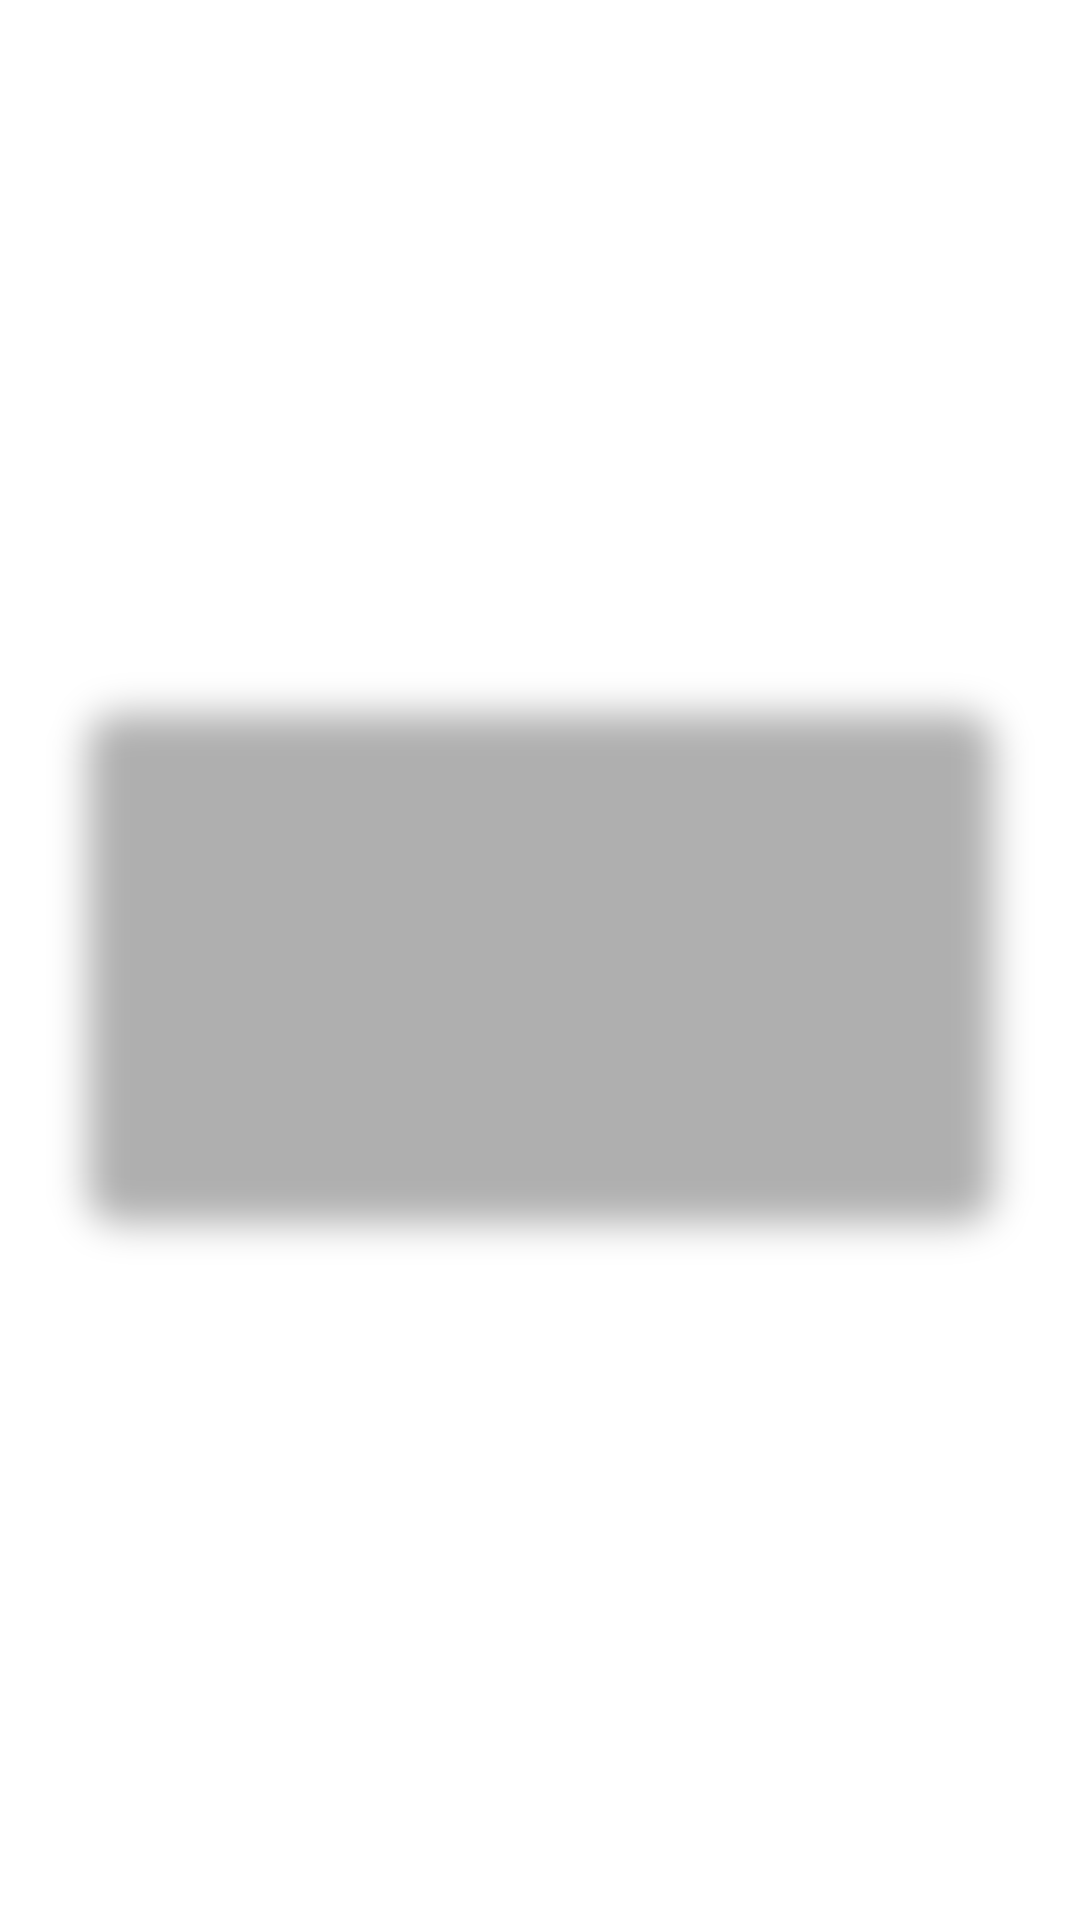
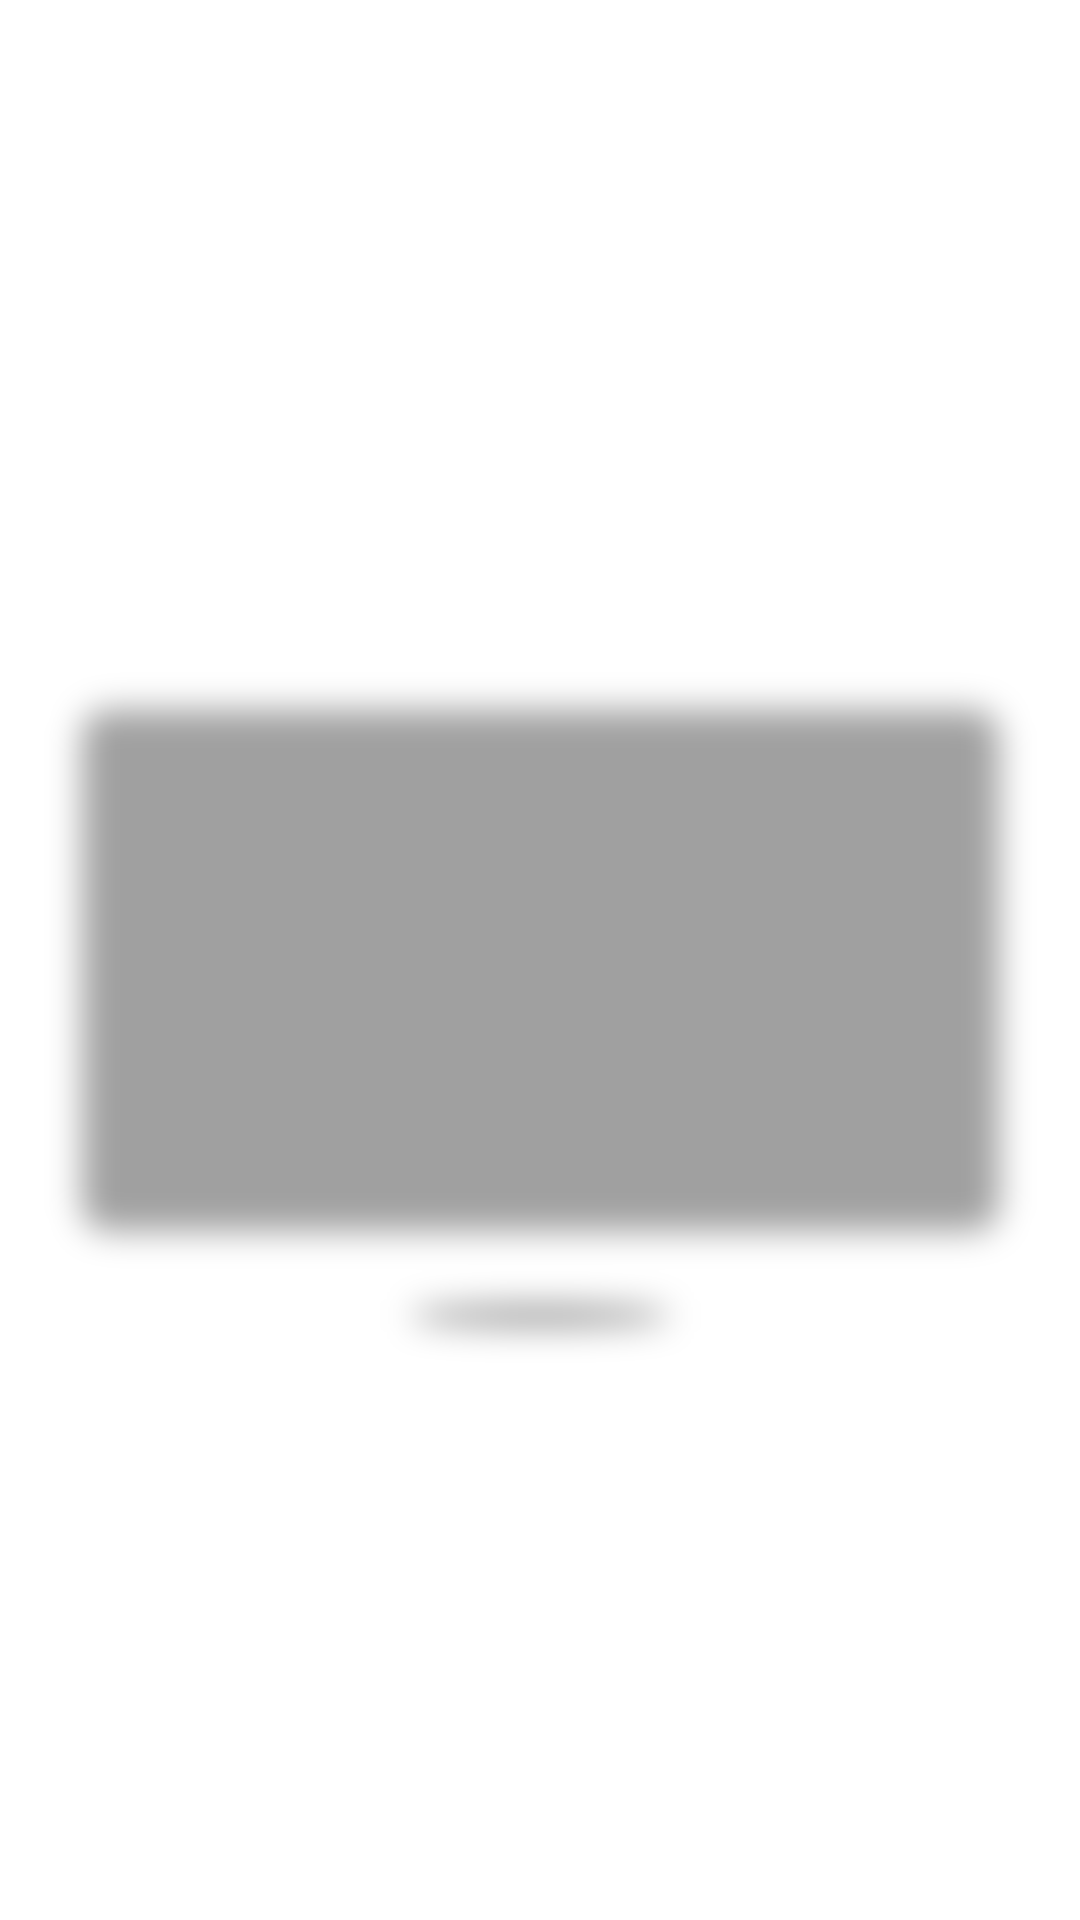
feat(insta-reel): add realistic monitor frame with stand and transparent alpha cutout

Changed region(s): [[0.0611, 0.5938, 0.9167, 0.7188], [0.0611, 0.375, 0.1222, 0.4062], [0.8861, 0.375, 0.9167, 0.4062]]

diff --git a/apps/worker/services/compositor.py b/apps/worker/services/compositor.py
@@ -743,6 +743,7 @@ def _ensure_insta_reel_assets(assets_dir: str):
     bg_canvas = os.path.join(assets_dir, "bg_canvas_9x16.png")
     shadow_layer = os.path.join(assets_dir, "shadow_layer.png")
     bezel_layer = os.path.join(assets_dir, "bezel_layer.png")
+    monitor_frame = os.path.join(assets_dir, "monitor_frame.png")
     corner_mask = os.path.join(assets_dir, "corner_mask.png")
 
     from PIL import Image, ImageDraw, ImageFilter, ImageOps
@@ -813,6 +814,7 @@ def composite_insta_reel(
     bg_canvas = os.path.join(assets_dir, "bg_canvas_9x16.png")
     shadow_layer = os.path.join(assets_dir, "shadow_layer.png")
     bezel_layer = os.path.join(assets_dir, "bezel_layer.png")
+    monitor_frame = os.path.join(assets_dir, "monitor_frame.png")
     corner_mask = os.path.join(assets_dir, "corner_mask.png")
 
     input_streams = _probe_streams(ffmpeg_bin, source_video_path)
@@ -836,12 +838,13 @@ def composite_insta_reel(
     else:
         filter_parts.append("[monitor_comp]format=yuv420p[vout]")
 
+    frame_layer = monitor_frame if os.path.exists(monitor_frame) else bezel_layer
     cmd = [
         ffmpeg_bin, "-y",
         "-loop", "1", "-i", bg_canvas,
         "-i", source_video_path,
         "-loop", "1", "-i", shadow_layer,
-        "-loop", "1", "-i", bezel_layer,
+        "-loop", "1", "-i", frame_layer,
         "-loop", "1", "-i", corner_mask,
         "-filter_complex", "".join(filter_parts),
         "-map", "[vout]",

diff --git a/apps/worker/services/subtitle_generator.py b/apps/worker/services/subtitle_generator.py
@@ -503,14 +503,14 @@ Format: Layer, Start, End, Style, Name, MarginL, MarginR, MarginV, Effect, Text
         bottom_y = play_res_y - margin_v
         default_pos_prefix = rf"{{\an2\pos({center_x},{bottom_y})}}"
 
-    # Insta Reel positioning: captions dock cleanly beneath the monitor card (~y=1420 on 1080x1920)
+    # Insta Reel positioning: captions dock cleanly beneath the monitor stand (~y=1450 on 1080x1920)
     is_insta_reel_caption = bool(
         kwargs.get("is_insta_reel")
         or caption_preset == "insta_reel"
         or kwargs.get("video_style") == "insta_reel"
     )
     if is_insta_reel_caption and play_res_y >= 1900:
-        default_pos_prefix = rf"{{\an5\pos({center_x},1420)}}"
+        default_pos_prefix = rf"{{\an5\pos({center_x},1450)}}"
 
     # When motion graphics overlay is present, position caption at the bottom of the motion graphics card
     # (NOT at the bottom of the video, and NOT covering the card center)

diff --git a/apps/worker/tests/test_phase5_insta_reel.py b/apps/worker/tests/test_phase5_insta_reel.py
@@ -52,8 +52,8 @@ def test_insta_reel_subtitle_preset_and_dock():
     with open(out_ass, "r") as f:
         content = f.read()
 
-    # Must contain position locked to y=1420 beneath monitor frame
-    assert r"\pos(540,1420)" in content
+    # Must contain position locked to y=1450 beneath monitor frame
+    assert r"\pos(540,1450)" in content
     # Must contain ASS Dialogue lines
     assert "Dialogue:" in content
 
